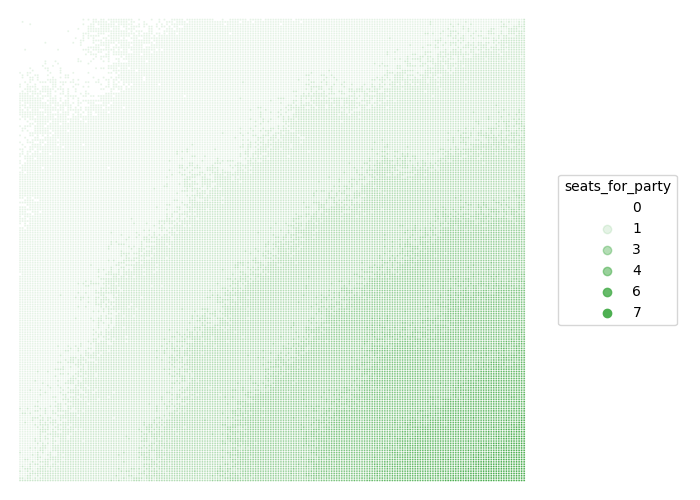
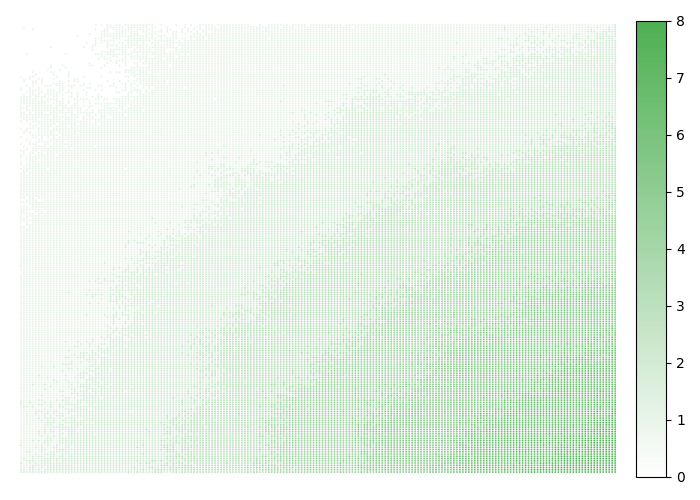
Use dummy values to create colorbar

diff --git a/main.py b/main.py
@@ -21,24 +21,6 @@ def color_to_palette(config, party_to_colorize):
         # Discrete, return palette name to use
         return c
 
-def color_to_legend(config):
-    c = config['color']
-    if c == 'Average':
-        return 'none'
-    elif c == 'Continuous':
-        return 'full'
-    else:  # Discrete
-        return 'full'
-
-def plot_examples(ax, colormap):
-    """
-    Helper function to plot data with associated colormap.
-    """
-    import numpy as np
-    np.random.seed(19680801)
-    data = np.random.randn(30, 30)
-    psm = ax.pcolormesh(data, cmap=colormap, rasterized=True, vmin=0, vmax=8)
-    return psm
 
 for config in configs:
     path = Path(config['out_dir'])
@@ -60,9 +42,8 @@ for config in configs:
         ]
 
         palette = color_to_palette(config, party_to_colorize)
-        legend_expansion = color_to_legend(config)
 
-        fig, axes = plt.subplots(ncols=2, figsize=(7, 5))
+        fig, axes = plt.subplots(ncols=2, figsize=(7, 5), width_ratios=[20, 1])
         sns.scatterplot(
             data=df_for_party,
             x='x',
@@ -70,14 +51,22 @@ for config in configs:
             hue='seats_for_party',
             palette=palette,
             s=2,
-            legend=legend_expansion,
+            legend=None,
             ax=axes[0]
         )
-        cbar = plot_examples(axes[1], palette)
-        fig.colorbar(cbar, cax=axes[1])
         axes[0].axis('off')
-        sns.move_legend(axes[0], 'center right', bbox_to_anchor=(1.3, 0.5))
-        plt.margins(0.01)
+
+        s = df.seats_for_party
+        matrix = [range(s.min(), s.max() + 1)]
+        psm = axes[1].pcolormesh(
+            matrix,
+            cmap=palette,
+            rasterized=True
+        )
+        fig.colorbar(psm, cax=axes[1])
+
+        for ax in axes:
+            ax.margins(0.01)
         plt.tight_layout()
         filename = Path(file).stem
         plt.savefig(f'examples/number-of-seats/{filename}.png')
